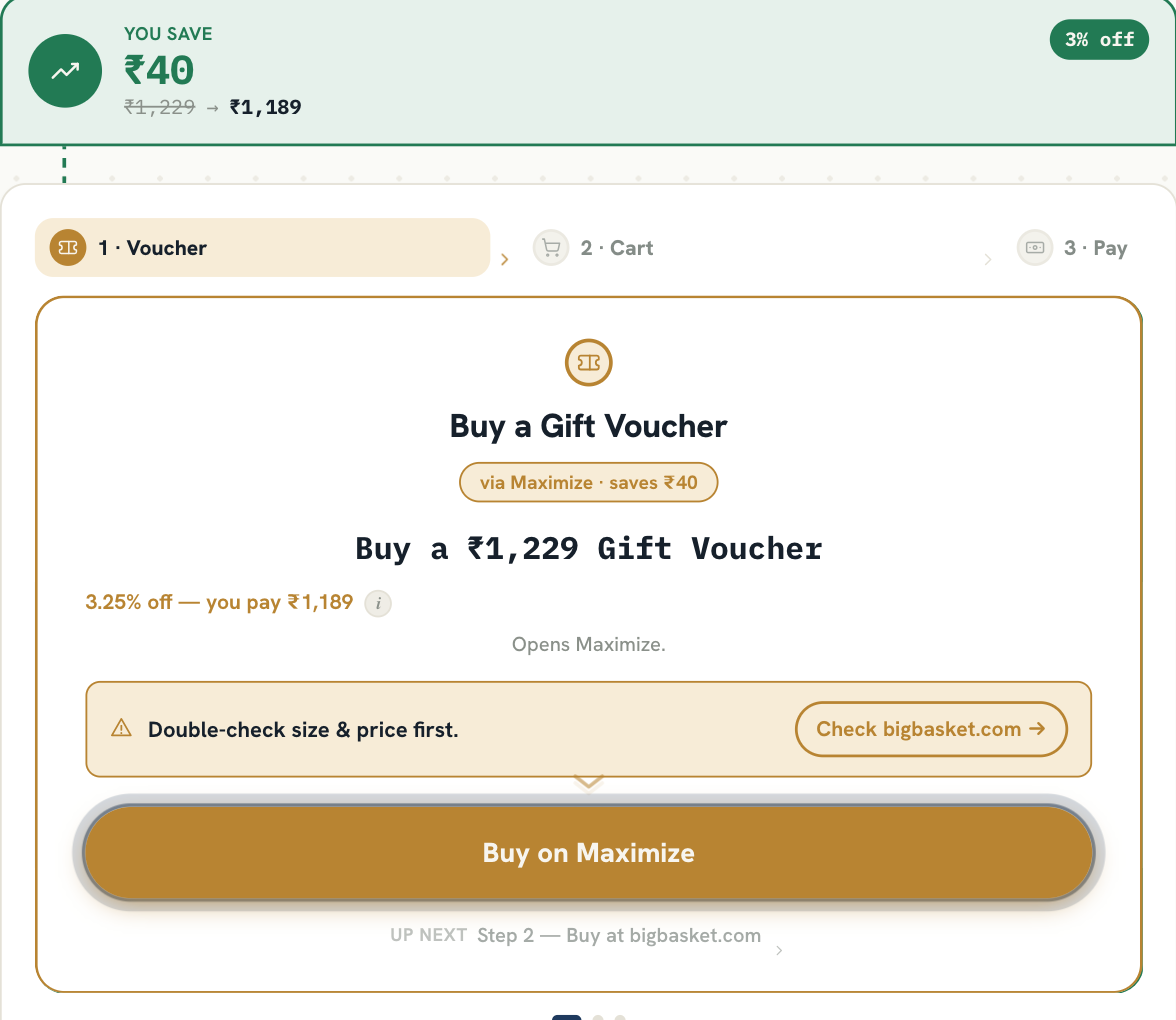
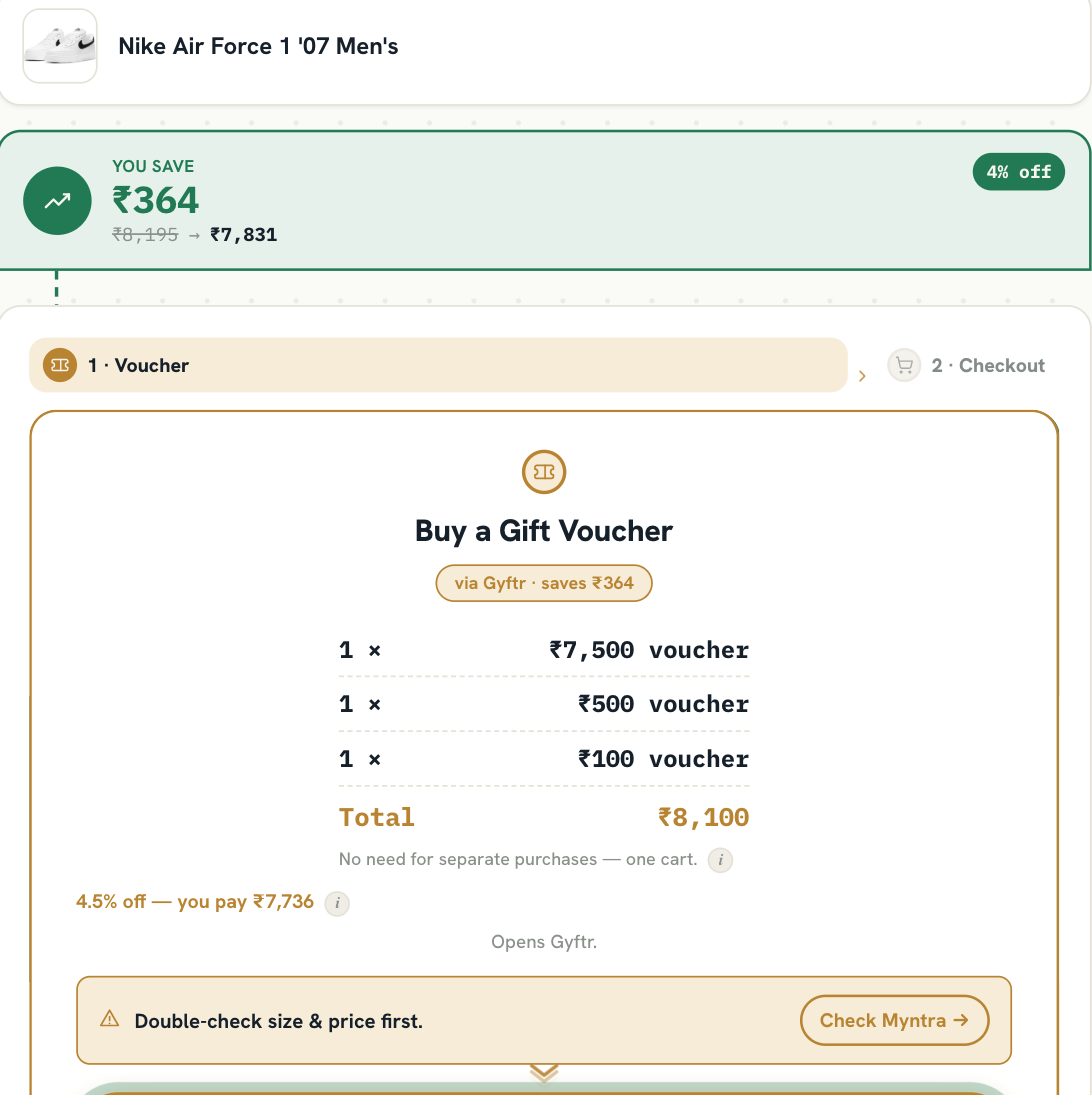
Update onboarding screenshot and design doc for 2-step Journey
The tutorial's step-3 screenshot still showed the old 3-chip
Voucher/Cart/Pay strip; replaced with a real screenshot of the
current 2-step Voucher/Checkout flow. Also brought the Journey
component description in design-system/dealo/MASTER.md in line with
the merged-step layout.

diff --git a/design-system/dealo/MASTER.md b/design-system/dealo/MASTER.md
@@ -81,13 +81,17 @@ Mono 400–700).
   figure (36–46px), with the was→now price line below as supporting
   detail. This is the dominant visual element on the results page; nothing
   should compete with it in size.
-- **`Journey` / `JourneyStep`** — vertical checklist (merchant → gift
-  voucher → checkout), not horizontal. Each step: an outline dot that fills
-  to a checkmark on click, a label + detail line, and an action button on
-  the right that opens the real external link. Deliberately not sequenced
-  — no artificial locking between steps. A ~550ms "Confirming…" pending
-  state precedes the checkmark landing so the confirmation is noticed, not
-  missed.
+- **`Journey`** — a two-step route: **Voucher → Checkout**. A persistent,
+  arrow-linked chip strip (`JourneyChips`) sits above a single-step detail
+  view (`JourneyPanels`) that shows one step at a time, swipeable or
+  tappable via the chips. Only two steps, not three — "add to cart" and
+  "pay" were merged into one `Checkout at [Merchant]` step, since the user
+  does both in one continuous visit to the merchant and never returns to
+  Dealo in between; splitting them was UI sequencing, not a real signal.
+  Completing a step auto-advances the view to the next one. Each step: an
+  icon, a label + detail line, and an action button that opens the real
+  external link. A ~550ms "Confirming…" pending state precedes the
+  checkmark landing so the confirmation is noticed, not missed.
 - **`ProductIdentity` / `ProductCandidateCard`** — `ProductIdentity` (results
   page) is a compact single row: a 52px square thumbnail beside the product
   name, not a full-width banner above it. Changed from an earlier full-width
